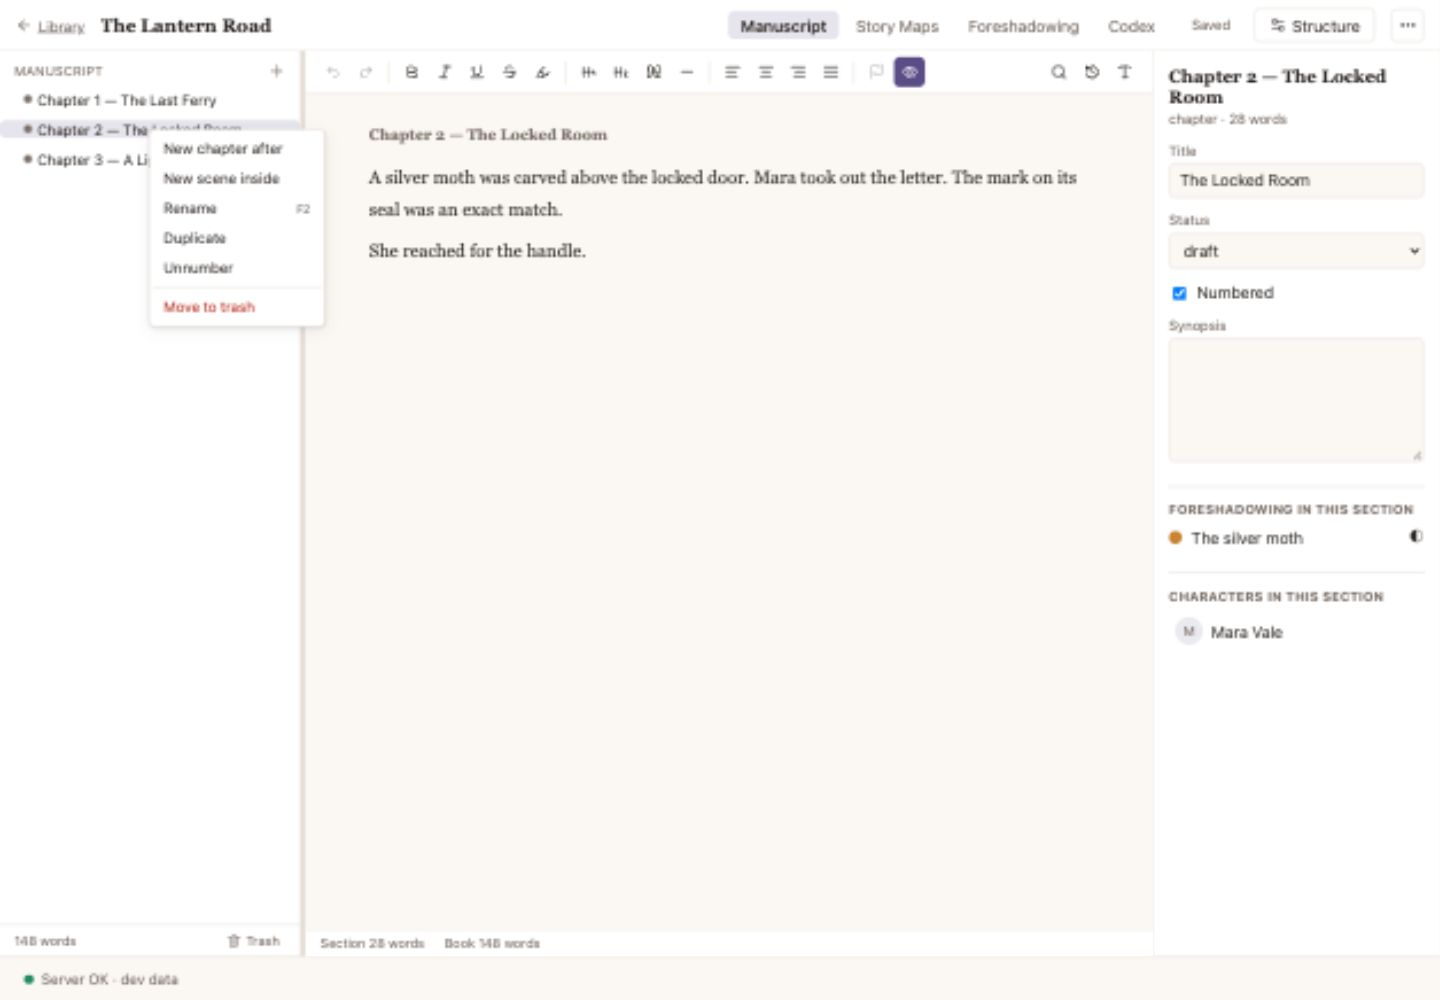
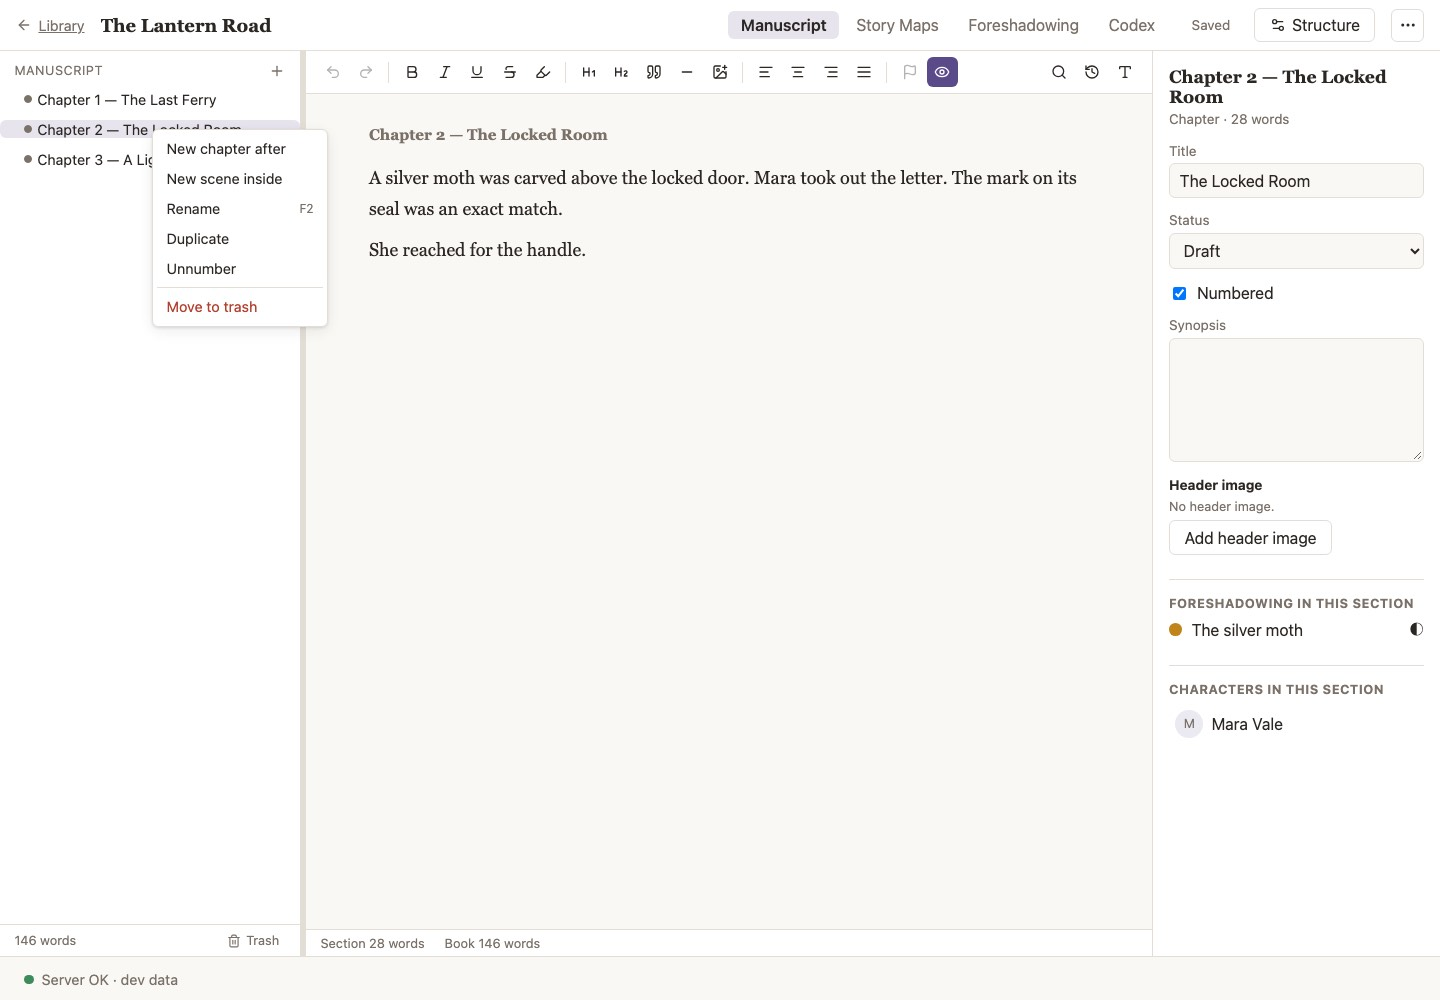
Refresh user guide and screenshots
Update screenshots and guidance for language switching, image controls, and display settings. Clarify Codex category recovery and development-server launcher warnings.

diff --git a/docs/USER_GUIDE.md b/docs/USER_GUIDE.md
@@ -73,7 +73,7 @@ Type only the chapter’s name—for example, **The Last Ferry**. NovelStudio su
 
 Click the large writing area beneath the chapter heading and type your opening paragraph. Pause briefly and look for **Saved** at the top of the window. Your text saves automatically after you stop typing for about a second.
 
-![The manuscript workspace with a chapter list on the left, story text in the middle, and title, status, and synopsis on the right.](images/user-guide/03-writing.jpg)
+![The manuscript workspace with a chapter list on the left, story text in the middle, and title, status, synopsis, and header image controls on the right.](images/user-guide/03-writing.jpg)
 
 *Write in the middle. Use the right panel for a short reminder of what happens in this chapter.*
 
@@ -156,7 +156,7 @@ Click **Structure** at the top of the book to change numbering for the whole boo
 
 Select a section and use the right panel:
 
-- **Status:** choose **idea**, **draft**, **revising**, or **done**.
+- **Status:** choose **Idea**, **Draft**, **Revising**, or **Done**.
 - **Synopsis:** write a short reminder of what happens here.
 
 Click outside a field when you finish editing. These notes help you navigate; the synopsis is separate from the prose your reader will see.
@@ -182,15 +182,19 @@ The bottom of the editor shows word counts for the section and book. Select a pa
 3. Choose **Light**, **Dark**, or **Sepia**. You can also set paragraph spacing, a background color, or a background picture, and turn **Show images** off to hide pictures while you draft (see [Add pictures](#add-pictures)).
 4. Click **Save**.
 
-![Display settings for font, spacing, theme, and background.](images/user-guide/04-display-settings.jpg)
+![Display settings for font, spacing, theme, image visibility, and background.](images/user-guide/04-display-settings.jpg)
 
 These settings apply to this book’s writing space. They are not page-layout instructions for an exported manuscript.
 
 ### Switch the interface language
 
-Open **Settings** from the Library and choose **English** or **简体中文** under **Language · 语言**. The change applies at once, without reloading, and does not touch your text. NovelStudio remembers the choice on this computer; the first time it opens, it follows your browser’s language.
+Open **Settings** from the Library’s three-dot menu or the Book menu. **Language · 语言** is at the top: choose **English** or **简体中文**. The change applies at once, without reloading, and does not touch your text. NovelStudio remembers the choice on this computer; the first time it opens, it follows your browser’s language.
 
-Only the interface changes. Titles, text, Codex names, and map contents stay exactly as you wrote them. Text that NovelStudio creates for you, such as the default Codex categories of a new book, uses the language that is active at that moment and is not rewritten later. This guide stays in English for now.
+![Settings with the Language · 语言 choice above the cold backup options.](images/user-guide/16-backup-settings.jpg)
+
+Only the interface changes. Titles, text, Codex names, and map contents stay exactly as you wrote them; in the example below, the chapter titles and text stay in English because that is how they were written. Text that NovelStudio creates for you, such as the default Codex categories of a new book, uses the language that is active at that moment and is not rewritten later. This guide stays in English for now.
+
+![The same chapter with the interface in Simplified Chinese: menus, buttons, and panel labels are translated.](images/user-guide/19-interface-language.jpg)
 
 ### Hide distractions
 
@@ -208,9 +212,13 @@ NovelStudio can place a picture between paragraphs and give each section a heade
 2. Click **Insert image** in the toolbar.
 3. Choose **Upload an image**, or click one of the pictures already in this book. The dialog shows the total size of the book’s pictures.
 
+![The Insert image dialog with an upload chooser, the Keep original option, and one picture already in the book.](images/user-guide/20-insert-image.jpg)
+
 You can also paste a picture (for example after **Copy image** in a browser, or a screenshot) or drop an image file onto the text. While it uploads, a short notice appears. PNG, JPEG, WebP, and GIF files up to 20 MB are accepted.
 
 Click a picture to select it. A small bar appears under it:
+
+![A selected picture with its caption and a bar of Small, Medium, Full, Caption, Replace, and Remove buttons.](images/user-guide/21-picture-in-text.jpg)
 
 - **Small**, **Medium**, or **Full** sets the width: about a third, two thirds, or all of the text column. A picture is never enlarged beyond its own size.
 - **Caption** adds a short line of text under the picture, up to 300 characters.
@@ -237,9 +245,13 @@ Any volume, part, chapter, or scene can have one header image, shown above its t
 
 A header image is not part of the text: it does not change word counts, find and replace, or snapshots. Duplicating a section copies it, and moving or trashing a section keeps it.
 
+![A chapter with a header image above its title and the Header image preview with Replace and Remove buttons in the right panel.](images/user-guide/22-header-image.jpg)
+
 ### Hide pictures while you draft
 
 Open **Display settings** and turn off **Show images**. Each picture, and each header image, shrinks to a thin line (with the caption, if there is one). Nothing in the text changes. Turn it back on any time.
+
+![The chapter with Show images turned off: the header image and the picture appear as short [Image] lines.](images/user-guide/23-images-hidden.jpg)
 
 ## Find words and make revisions
 
@@ -285,6 +297,8 @@ Use **Search codex** to find entries across categories. The menu beside a catego
 In Manuscript, **Characters in this section** shows characters whose names appear in the prose. Add nicknames to the character’s **Aliases** field, separated by commas, so the app can recognize those too.
 
 Deleting a Codex entry is permanent within the app; it does not go to manuscript Trash. Make a [cold backup](#keep-a-separate-backup) before a major cleanup.
+
+If you delete every category, the Codex stays empty rather than refilling itself. Click **Add default categories** to bring back the standard set.
 
 ## Plan with story maps
 
@@ -525,6 +539,7 @@ Refreshing the browser alone does not complete the restore. Before restarting, y
 | **Changed elsewhere — reload** appears. | Another window has saved a newer version. Copy your current text somewhere safe first. Then reload and compare with the saved version before continuing. Use one writing window per book to avoid competing edits. |
 | The browser asks whether you want to leave. | Stay on the page while work is unsaved. Wait for saving to finish, or preserve the text elsewhere before leaving. |
 | The page will not load. | Start NovelStudio with its launcher and leave the Terminal window open. If it reports an error, keep the message for the person helping you. |
+| The launcher says a port is used by a NovelStudio development server. | That is not your real library. Stop the development server, or ask whoever set up NovelStudio to help; the launcher does not open it for you. |
 | A chapter seems missing. | Expand any collapsed groups in the manuscript list, then check that book’s **Trash**. |
 | A book seems missing. | Check **Library → Trash**. Make sure you opened your usual NovelStudio installation, not a demonstration library. |
 | A backup folder is unavailable. | Reconnect the drive or make the folder available, then use **Validate** and retry the export. Check for a **Verified** result. |
@@ -546,4 +561,4 @@ Refreshing the browser alone does not complete the restore. Before restarting, y
 | Move out one level | **Shift+Tab** | In the chapter list. |
 | Undo the most recent structural move | **Command+Z** | With the chapter list focused. |
 
-*Guide prepared against NovelStudio 0.1.0 on October 27, 2026. All story text and names in the screenshots are fictional.*
+*Guide prepared against NovelStudio 0.1.0 (milestones M0–M11) on November 3, 2026. All story text and names in the screenshots are fictional.*
